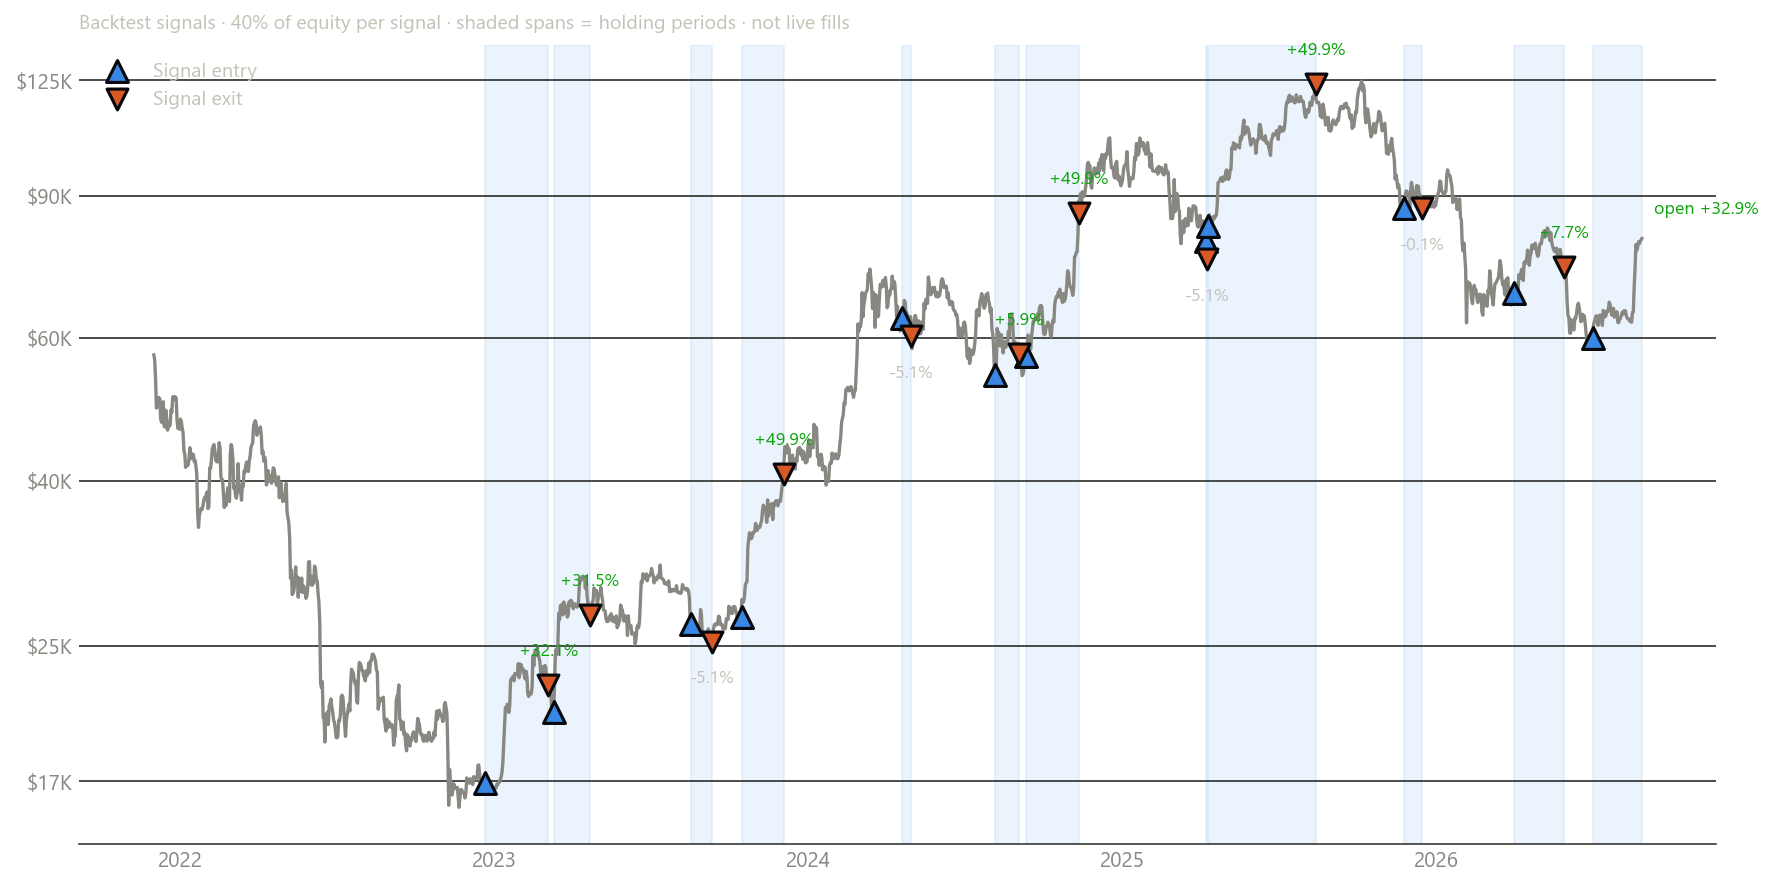
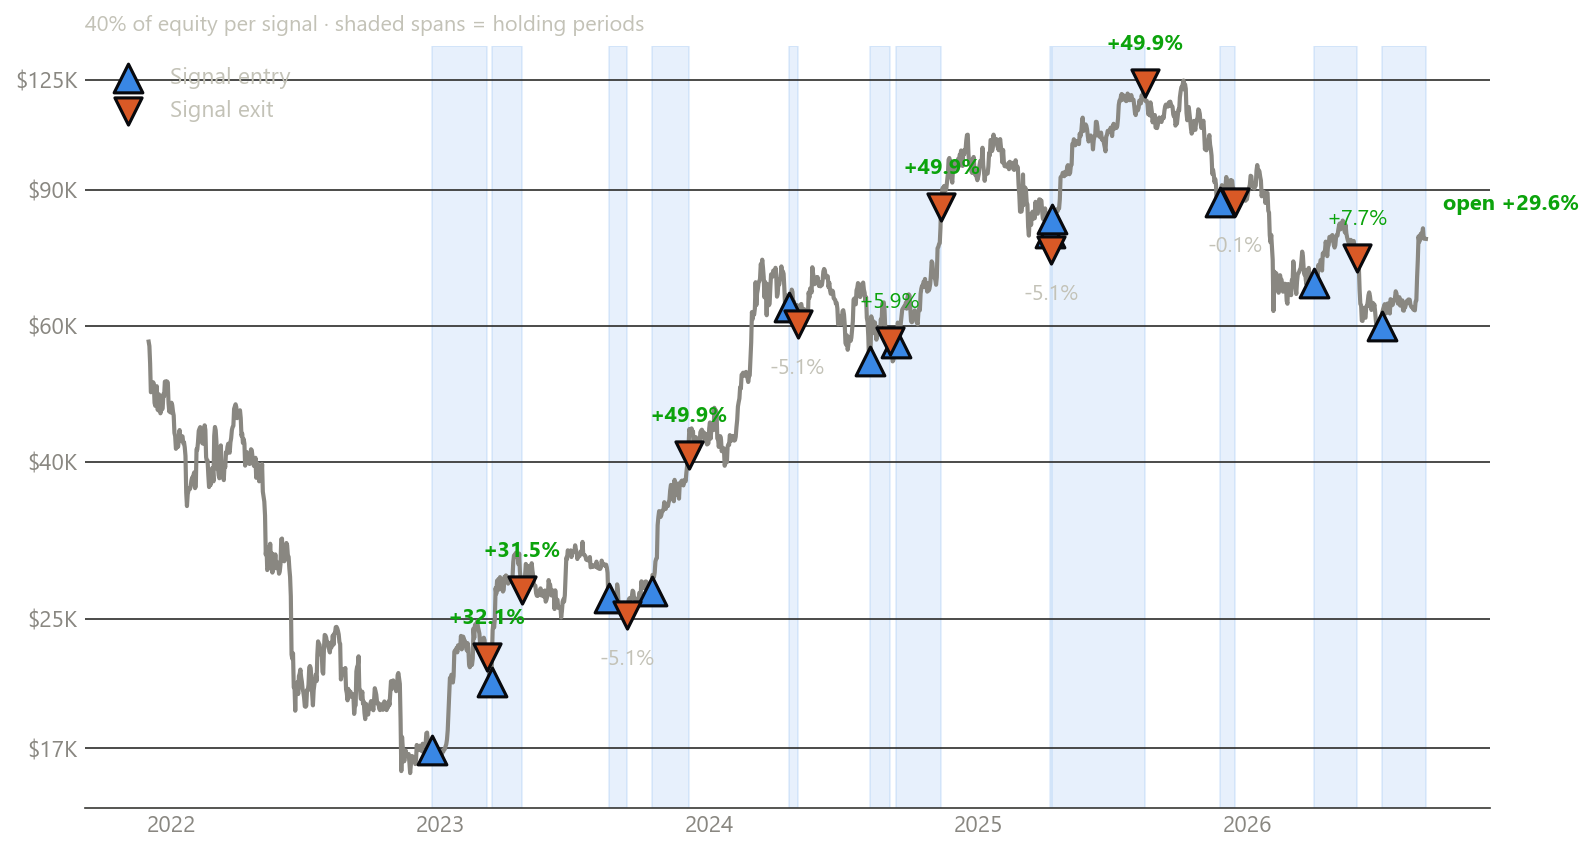
btc-lsr: larger chart marks and labels; badge to plain Live; affirmative signals-vs-live wording
Chart re-rendered with oversized markers/type for the modal downscale. Status
badge drops the (manual) qualifier. Description and basis now state the live
record affirmatively - live since Apr 2025, entries within 0.02-1.2% of
signal, order-ID verified - instead of the repeated "not live fills" negation;
metrics remain labelled as the signal record.

diff --git a/lib/strategies.ts b/lib/strategies.ts
@@ -265,9 +265,8 @@ export const strategies: Strategy[] = [
     maxDD: '-7.2%',
     maxDDNum: 0.072,
     status: 'live',
-    statusLabel: 'Live (manual)',
-    description: 'Directional BTC strategy using the coefficient between buyers and sellers to identify regime shifts and market bottoms. Card metrics are the signal record at 40% of equity per signal, unlevered (cash otherwise idle). CAGR is measured from the first signal (Dec 2022); the same curve compounds at 21.4% measured from Jan 2022, and full history from 2014 at 16.7%. Live execution is manual since Apr 2025, with fills verified against exchange order IDs at 0.02-1.2% slippage to signal; the trade list shows strategy signals, not live fills.',
-    dataSource: 'Signals (backtest): 2022-2026 (4.7 yr) | Live (manual): Apr 2025',
+    description: 'Directional BTC strategy using the coefficient between buyers and sellers to identify regime shifts and market bottoms. Card metrics are the signal record at 40% of equity per signal, unlevered (cash otherwise idle). CAGR is measured from the first signal (Dec 2022); the same curve compounds at 21.4% from Jan 2022 and 16.7% from 2014. Trading live since Apr 2025 - live entries tracked the signals within 0.02-1.2%, verified against exchange order IDs.',
+    dataSource: 'Signals: 2022-2026 (4.7 yr) | Live: Apr 2025',
     backtestStart: 2022,
     backtestEnd: 2026,
     liveStart: 2025,
@@ -285,7 +284,7 @@ export const strategies: Strategy[] = [
       { year: 2026, months: [0.0, 0.0, 0.0, 4.7, -1.6, 0.0, 1.9, 11.2, null, null, null, null], ytd: 16.8, isLive: true },
     ],
     chartImg: pdf('/charts/btc-lsr-signals.png'),
-    chartImgLabel: 'Backtest signals | not live fills',
+    chartImgLabel: 'Strategy signals 2022-2026',
   },
   {
     id: 'yield',
